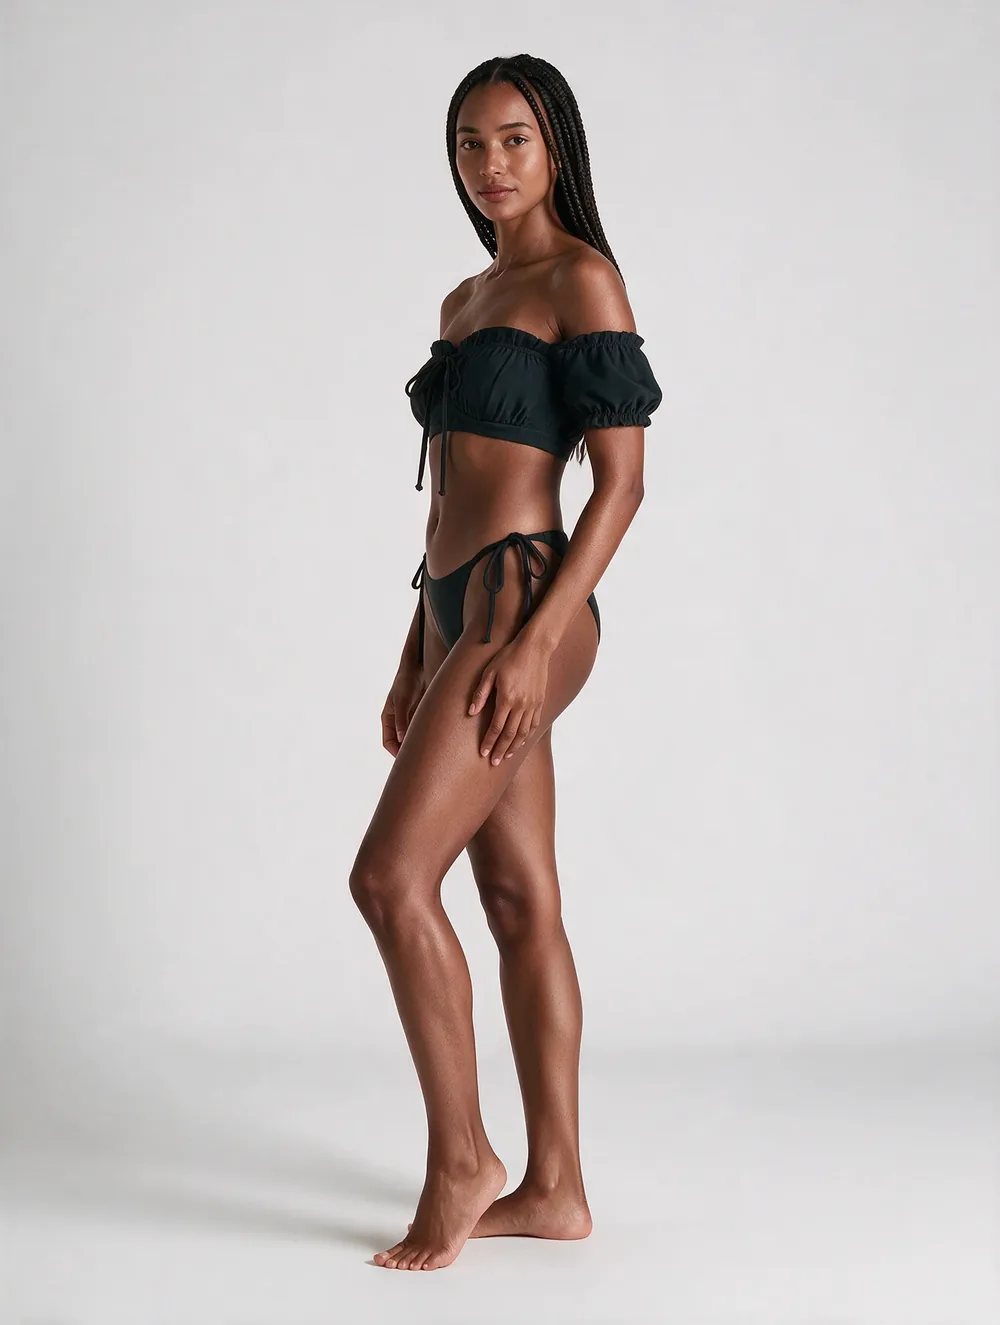
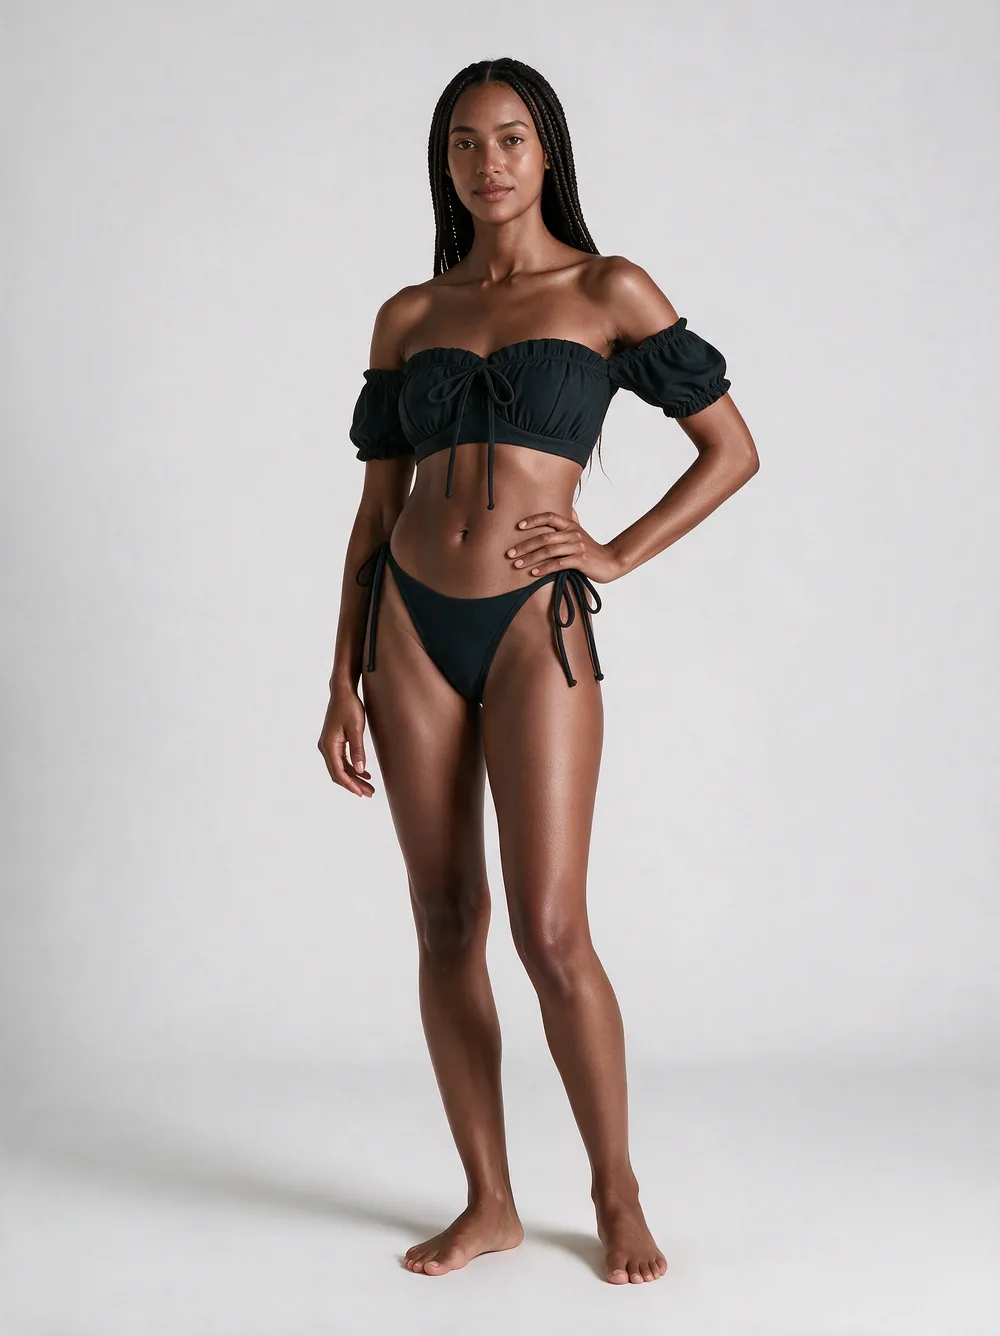
v161: replace six AI photos that had anatomy errors
Joshua spotted a third hand on the Body Adhesive story photo. A full
audit of every generated image on the site (51 story photos, 261
collection tiles, hero posters, og-image) found five more real faults:
a foot at knee height through a floor-length dress (wedding garden), a
shoe and a stray foot beside the off-shoulder dress, a mirror reflection
that did not match the subject (tummy-control bra), a mismatched sandal
held at hip height (rooftop midi), and the black puff-sleeve bikini tile
missing its near arm. All six regenerated and checked by eye for hands,
feet and reflections before swapping in; the bra scene now has no mirror.

Claude-Session: https://claude.ai/code/session_015qMQssRjkLz5uwvj6N7v1M

Changed region(s): [[0.217, 0.0309, 0.775, 0.9592]]

diff --git a/src/lib/storyImages.ts b/src/lib/storyImages.ts
@@ -32,7 +32,7 @@ export const STORY_IMAGES: Record<string, StoryImage> = {
   // Situational, posed-for-camera shots (Joshua, 30 Sept 2026: real moments
   // where the piece belongs, looking into the camera, not mirror selfies).
   "off-shoulder-sculpt-midi-dress": {
-    src: "/story/off-shoulder-dress-evening.webp",
+    src: "/story/off-shoulder-dress-evening-v2.webp",
     alt: "Off-Shoulder Sculpt Dress in deep wine red, on a city street at dusk before dinner",
   },
   "solid-colour-bikini-set": {
@@ -76,7 +76,7 @@ export const STORY_IMAGES: Record<string, StoryImage> = {
   // Batch 2 (30 Sept 2026): influencer mood - posed, flattering light,
   // styled; mirror shots at real places with different phones.
   "long-sleeve-sculpt-maxi-dress": {
-    src: "/story/long-sleeve-maxi-wedding-garden.webp",
+    src: "/story/long-sleeve-maxi-wedding-garden-v2.webp",
     alt: "Long Sleeve Sculpt Maxi Dress in navy, wedding guest in a country-house garden",
   },
   "u-neck-slit-maxi-dress": {
@@ -109,7 +109,7 @@ export const STORY_IMAGES: Record<string, StoryImage> = {
   },
   // Batch 3 (30 Sept 2026): influencer mood; mirror shots with new phones.
   "sleeveless-ribbed-midi-dress": {
-    src: "/story/ribbed-midi-rooftop-bar.webp",
+    src: "/story/ribbed-midi-rooftop-bar-v2.webp",
     alt: "Sleeveless Ribbed Midi Dress in white at a rooftop bar at golden hour",
   },
   "womens-lace-long-sleeve-dress": {
@@ -195,8 +195,8 @@ export const STORY_IMAGES: Record<string, StoryImage> = {
     alt: "Silicone Strapless Backless Bra in off-white, hotel mirror photo before a night out",
   },
   "seamless-support-bra-with-tummy-control": {
-    src: "/story/tummy-control-bra-vanity.webp",
-    alt: "Seamless Tummy Control Bra in nude at a bright bathroom vanity",
+    src: "/story/tummy-control-bra-window-v2.webp",
+    alt: "Seamless Tummy Control Bra in nude with jeans, by a bright window at home",
   },
   "cotton-lace-brief": {
     src: "/story/cotton-lace-brief-sunday.webp",
@@ -219,8 +219,8 @@ export const STORY_IMAGES: Record<string, StoryImage> = {
     alt: "Silk Eye Mask in light pink, waking up in a hotel bed",
   },
   "body-adhesive-glue-for-clothing-security": {
-    src: "/story/body-glue-getting-ready.webp",
-    alt: "Body Adhesive being used to hold the neckline of a strapless dress",
+    src: "/story/body-glue-getting-ready-v2.webp",
+    alt: "Body Adhesive tube held up at a dressing table, getting ready in a strapless dress",
   },
   "jelly-cup-multi-way-strapless-bra": {
     src: "/story/jelly-cup-bra-wardrobe.webp",
